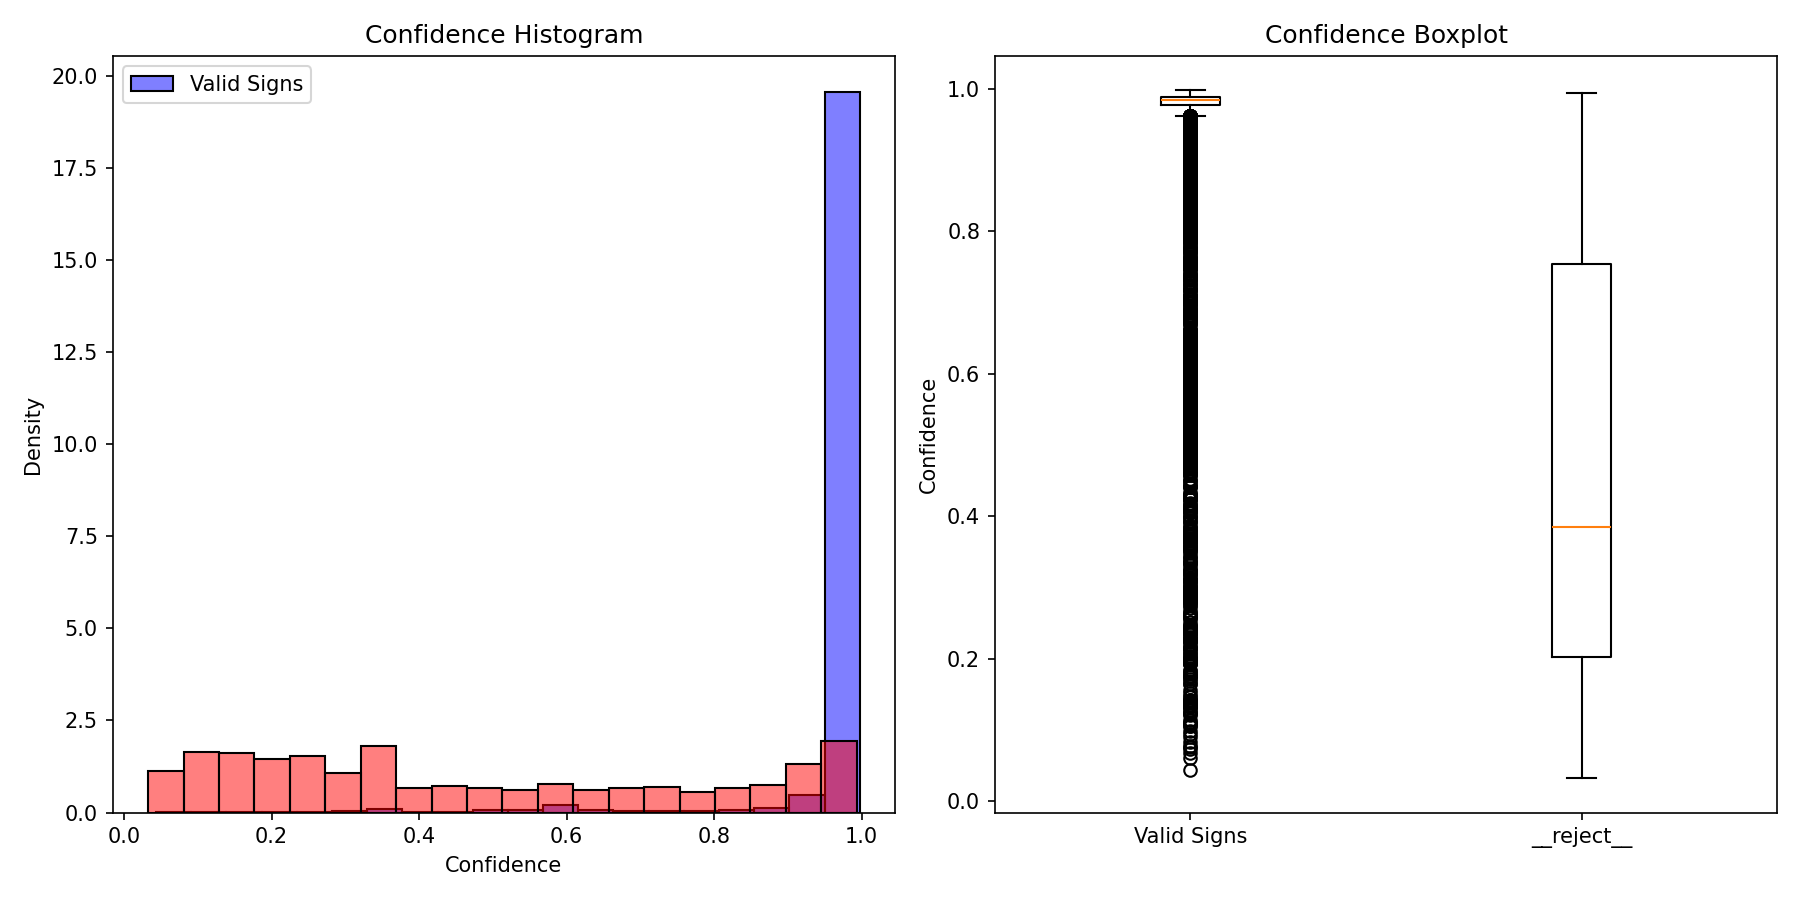
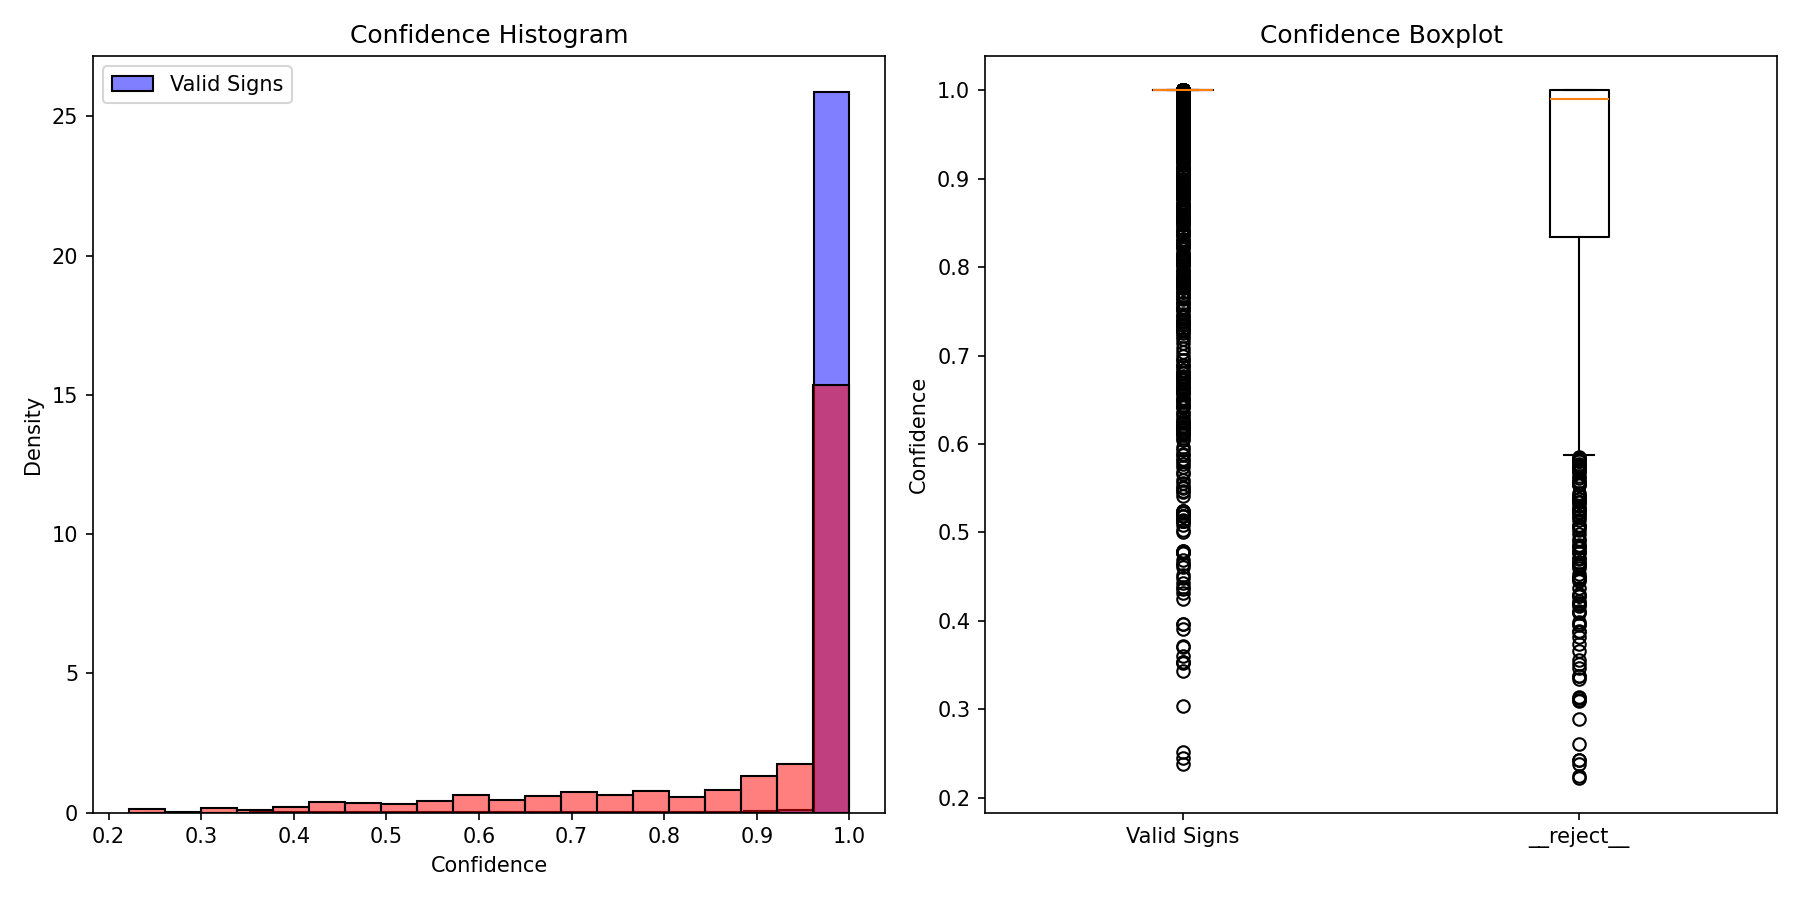
feat: add evaluation patching scripts and validation robustness report results

diff --git a/patch_scripts.py b/patch_scripts.py
@@ -1,0 +1,76 @@
+import sys
+import numpy as np
+
+def patch_robustness():
+    filepath = 'src/tools/evaluate_robustness.py'
+    with open(filepath, 'r') as f:
+        content = f.read()
+    
+    if 'import argparse' not in content:
+        content = content.replace('import os\n', 'import os\nimport argparse\n')
+        
+    content = content.replace('def evaluate_baseline():', 'def evaluate_baseline(val_only=False):')
+    
+    main_block = """if __name__ == "__main__":
+    parser = argparse.ArgumentParser()
+    parser.add_argument('--val-only', action='store_true')
+    args = parser.parse_args()
+    evaluate_baseline(val_only=args.val_only)"""
+    
+    content = content.replace('if __name__ == "__main__":\n    evaluate_baseline()', main_block)
+    
+    robust_filter = """
+    if val_only:
+        val_idx = set(np.load("results_v2/val_idx.npy"))
+        test_indices = [i for i in test_indices if i in val_idx]
+        valid_sign_indices = [i for i in valid_sign_indices if i in val_idx]
+        reject_indices = [i for i in reject_indices if i in val_idx]
+        print(f"Filtered to VAL ONLY. Now {len(test_indices)} samples.")
+    """
+    if 'print(f"Test set (natural distribution)' in content:
+        content = content.replace('    print(f"Test set (natural distribution) includes {len(test_indices)} samples.")', robust_filter + '\n    print(f"Test set (natural distribution) includes {len(test_indices)} samples.")')
+
+    # Also, we need to save the outputs in results_v2!
+    # Let's override plt.savefig
+    content = content.replace('plt.savefig(os.path.join("diagrams",', 'plt.savefig(os.path.join("results_v2",')
+    content = content.replace('with open("diagrams/', 'with open("results_v2/')
+
+    with open(filepath, 'w') as f:
+        f.write(content)
+
+def patch_metrics():
+    filepath = 'src/tools/generate_report_metrics.py'
+    with open(filepath, 'r') as f:
+        content = f.read()
+    
+    if 'import argparse' not in content:
+        content = content.replace('import os\n', 'import os\nimport argparse\n')
+
+    content = content.replace('def main():', 'def main(val_only=False):')
+    
+    main_block = """if __name__ == "__main__":
+    parser = argparse.ArgumentParser()
+    parser.add_argument('--val-only', action='store_true')
+    args = parser.parse_args()
+    main(val_only=args.val_only)"""
+    
+    content = content.replace('if __name__ == "__main__":\n    main()', main_block)
+
+    metrics_filter = """
+    if val_only:
+        val_idx = set(np.load("results_v2/val_idx.npy"))
+        test_indices = [i for i in test_indices if i in val_idx]
+        val_test_indices = [i for i in val_test_indices if i in val_idx]
+        print(f"Filtered to VAL ONLY. Now test={len(test_indices)} val={len(val_test_indices)} samples.")
+    """
+    if 'print(f"Found {len(test_indices)} test/unseen samples' in content:
+        content = content.replace('    print(f"Found {len(test_indices)} test/unseen samples', metrics_filter + '\n    print(f"Found {len(test_indices)} test/unseen samples')
+    
+    content = content.replace('os.path.join("benchmarks",', 'os.path.join("results_v2",')
+
+    with open(filepath, 'w') as f:
+        f.write(content)
+
+patch_robustness()
+patch_metrics()
+print("Patched.")
